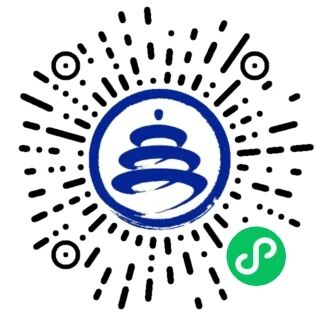
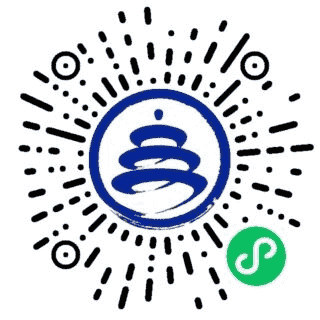
SEO-Paket: FAQPage mit sichtbarem Block je Stadt, offers/isAccessibleForFree im ItemList, H1 mit Keyword, /praktisch als Hub (215 -> 634 Woerter), AVIF-Bilder und komprimierte QR-Codes (erster Bildschirm ~548 -> ~120 KB)

diff --git a/src/styles/city.css b/src/styles/city.css
@@ -600,6 +600,22 @@
 .d-slots dd { margin: 0; color: var(--fg); }
 
 /* ---------- Änderungsprotokoll ---------- */
+/* Häufige Fragen: sichtbar UND als FAQPage-Markup – Google verlangt, dass
+   beides übereinstimmt. */
+.faq { margin: 0 0 1.2rem; }
+.faq-item {
+  border-top: 1px solid var(--line);
+  padding: .85rem 0;
+}
+.faq-item:last-child { border-bottom: 1px solid var(--line); }
+.faq dt {
+  font-weight: 600;
+  font-family: var(--font-ui);
+  font-size: .95rem;
+  margin-bottom: .35rem;
+}
+.faq dd { margin: 0; color: var(--fg); max-width: 62ch; }
+
 .changelog {
   list-style: none;
   margin: 0.6rem 0 0;

diff --git a/src/content.config.ts b/src/content.config.ts
@@ -182,6 +182,8 @@ const cities = defineCollection({
     connections: z.array(connection).default([]),
     bookAhead: z.array(z.string()).default([]),
     traps: z.array(z.string()).default([]),
+    /** Häufige Fragen. Erscheinen sichtbar UND als FAQPage-Markup. */
+    faq: z.array(z.object({ q: z.string(), a: z.string() })).default([]),
     status: z.enum(['verified', 'draft', 'stale']).default('draft'),
     verified: z.string().regex(/^\d{4}-\d{2}-\d{2}$/).optional(),
     /** Was sich geändert hat – macht das Prüfdatum überprüfbar. */

diff --git a/src/content/cities/xian.md b/src/content/cities/xian.md
@@ -334,6 +334,20 @@ experiences:
     price: 'kostenlos'
     text: 'Eine zwei Kilometer lange Fußgängerachse zwischen der Pagode und dem Qujiang-See, abends vollständig beleuchtet, mit Straßenmusik, Bühnen und Essensständen. Kommerziell, aber der Maßstab ist sehenswert – und es kostet nichts, hineinzulaufen.'
     tip: 'Am Wochenende ist es so voll, dass man kaum vorwärts kommt. Unter der Woche ab 20:00 Uhr ist es angenehm.'
+faq:
+  - q: 'Wie viele Tage braucht man für Xi’an?'
+    a: 'Ein Tag reicht für Terrakotta-Armee und Stadtmauer, zwei Tage nehmen das Geschichtsmuseum Shaanxi und das muslimische Viertel mit, drei Tage lassen Zeit für Beilin und den Huaqing-Palast.'
+  - q: 'Was kostet die Terrakotta-Armee?'
+    a: '120 ¥ für Erwachsene, inklusive Shuttle zum Lishan-Park. Chinesische Vollzeitstudierende zahlen 60 ¥, ab 65 Jahren ist der Eintritt frei. Eine Tageskasse gibt es nicht.'
+  - q: 'Muss man die Terrakotta-Armee vorab buchen?'
+    a: 'Ja. Der Verkauf ist an den Namen gebunden und öffnet sieben Tage vorher (an Feiertagen zehn Tage); morgens sind die Plätze zuerst weg, nachmittags ist es ruhiger.'
+  - q: 'Wie kommt man von Peking nach Xi’an?'
+    a: 'Mit dem Schnellzug in 4,5 bis 6 Stunden. Alle Fernzüge halten am Bahnhof Nord (西安北站), nicht am Hauptbahnhof; von dort führt die Metro-Linie 2 bis Zhonglou.'
+  - q: 'Lohnt sich die Stadtmauer mit dem Rad?'
+    a: 'Ja: 13,74 km, Leihrad 45 ¥ für drei Stunden, reine Fahrzeit rund zwei Stunden. Wer nach 20 Uhr abgibt, kann nur am Südtor (Yongningmen) zurückgeben.'
+  - q: 'Wann ist die beste Reisezeit für Xi’an?'
+    a: 'März bis Mai und September bis Oktober. Im Hochsommer liegen die Temperaturen oft über 35 Grad, im Winter ist die Luft trocken und die Hallen der Terrakotta-Armee sind unbeheizt.'
+
 plans:
   - title: 'Xi''an an einem Tag'
     forWhom: 'Wer auf der Durchreise ist und die Terrakotta-Armee zwingend sehen will'

diff --git a/src/content/cities/peking.md b/src/content/cities/peking.md
@@ -482,6 +482,18 @@ experiences:
       license: 'CC BY-SA 3.0'
       licenseUrl: 'https://creativecommons.org/licenses/by-sa/3.0'
       sourceUrl: 'https://commons.wikimedia.org/wiki/File:Yinzha_Hutong,_Beijing,_from_Wusi_Street.jpg'
+faq:
+  - q: 'Wie viele Tage braucht man für Peking?'
+    a: 'Ein Tag reicht für die Achse Tiananmen – Verbotene Stadt – Jingshan. Drei Tage decken die neun Orte oben ab, mit fünf Tagen bleibt ein voller Tag für die Mauer in Mutianyu und der Sommerpalast ohne Zeitdruck.'
+  - q: 'Was kostet der Eintritt in die Verbotene Stadt?'
+    a: '60 ¥ von April bis Oktober, 40 ¥ von November bis März. Die Schätze-Galerie kostet 10 ¥ zusätzlich. Tickets gibt es nur online mit Passnummer, eine Tageskasse existiert nicht.'
+  - q: 'Brauchen deutsche Staatsangehörige ein Visum für Peking?'
+    a: 'Nein. Die visumfreie Einreise erlaubt bis zu 30 Tage Aufenthalt, die Regelung gilt bis 31. Dezember 2026. Einzelheiten stehen auf der Seite zur visumfreien Einreise.'
+  - q: 'Wie kommt man vom Flughafen in die Stadtmitte?'
+    a: 'Mit dem Airport Express bis Dongzhimen und von dort mit der U-Bahn: 45 bis 70 Minuten, 25 bis 30 ¥. Taxi oder DiDi kosten 120 bis 200 ¥ und brauchen in der Rushhour deutlich länger.'
+  - q: 'Wann ist die beste Reisezeit für Peking?'
+    a: 'April bis Mai und September bis Oktober. Der Sommer ist heiß und schwül, der Winter trocken und kalt; die erste Oktoberwoche ist wegen des Nationalfeiertags die vollste Woche des Jahres.'
+
 plans:
   - title: '1 Tag – das Minimum'
     forWhom: 'Zwischenstopp, Umsteigeflüge, Geschäftsreise'
